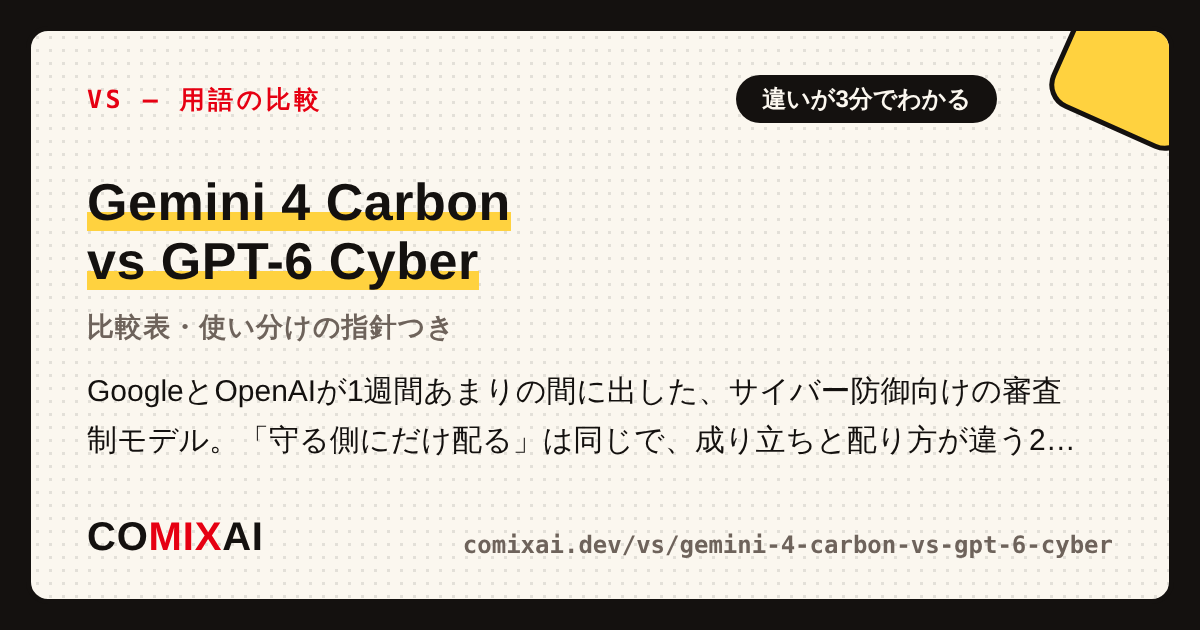
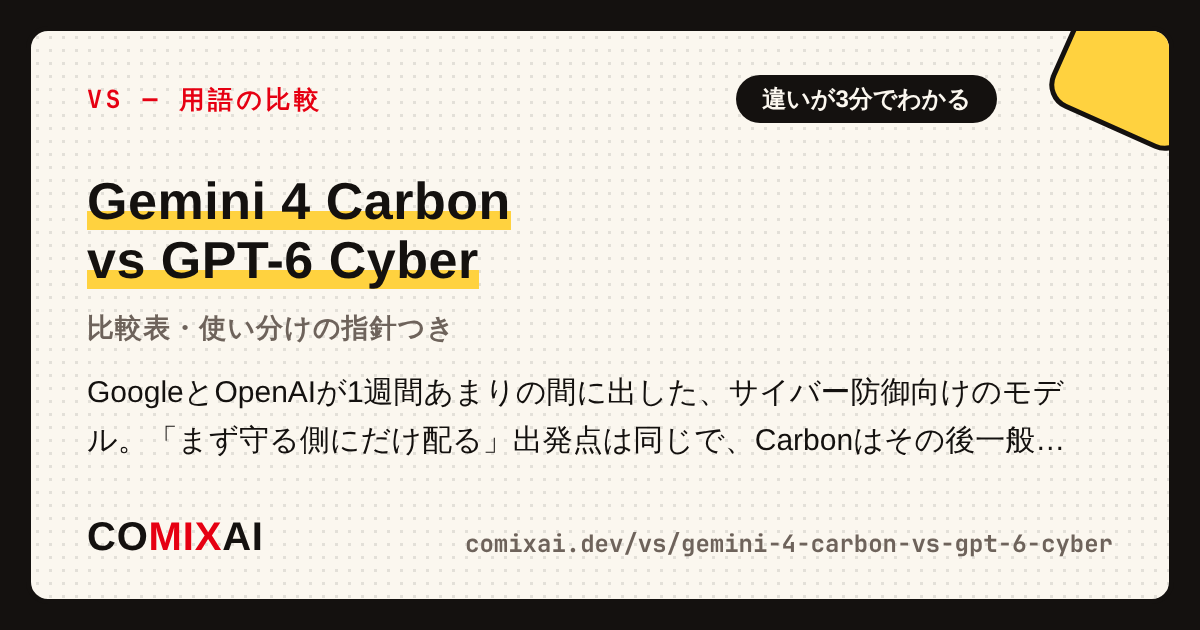
fix: 比較ページのGemini 4 Carbonの提供状況を更新（一般提供開始を反映） (#318)
/vs/gemini-4-carbon-vs-gpt-6-cyber が、Carbonを審査制のままとして
書かれていた。Carbonは2026年11月10日に一般提供が始まっているため、
事実と食い違っていた6か所を現状に合わせた。GPT-6 Cyberは審査制の
ままなので、そちらは変更していない。

shortを直したぶん、該当ペアのOGP画像も再生成。

Claude-Session: https://claude.ai/code/session_013s3PaBcBV9Nh4iibjfCyyR

diff --git a/src/app/vs/data.ts b/src/app/vs/data.ts
@@ -950,11 +950,11 @@ export const VS_PAIRS: VsPair[] = [
     bName: "GPT-6 Cyber",
     title: "Gemini 4 CarbonとGPT-6 Cyberの違い",
     short:
-      "GoogleとOpenAIが1週間あまりの間に出した、サイバー防御向けの審査制モデル。「守る側にだけ配る」は同じで、成り立ちと配り方が違う2つを、2026年11月時点の情報で整理します。",
+      "GoogleとOpenAIが1週間あまりの間に出した、サイバー防御向けのモデル。「まず守る側にだけ配る」出発点は同じで、Carbonはその後一般提供へ進みました。成り立ちと配り方が違う2つを、2026年11月時点の情報で整理します。",
     verdict:
-      "どちらも「攻める力と守る力は同じ能力の裏表」という事実を、審査を通った守る側にだけ配る形にしたモデルです。たとえるなら、同じ時期に2社から出た消防署専用の特殊車両。違いは成り立ちで、Carbonは最上位の新型をまず消防署に回した形、Cyberは現行の主力機を消防仕様に仕立てた形です。",
+      "どちらも「攻める力と守る力は同じ能力の裏表」という事実を受けて、まず審査を通った守る側にだけ配る形で出したモデルです。たとえるなら、同じ時期に2社から出た消防署専用の特殊車両。違いは成り立ちで、Carbonは最上位の新型をまず消防署に回した形、Cyberは現行の主力機を消防仕様に仕立てた形です。その後Carbonは2026年11月10日に一般提供へ進み、Cyberは審査の内側に留まっています。",
     lead: [
-      "Gemini 4 Carbonは、Googleが2026年10月28日に発表したフロンティアモデルです。自社で最も強力なモデルと位置づけられ、強みの打ち出しはサイバーセキュリティと長時間かかる作業の2つ。ソフトウェアの欠陥を見つけ、攻撃者が実際に悪用できるのかを確かめ、根本の原因を直すところまでを、守る側の道具として担います。発表時点で使えるのは、審査制プログラム「Fairwind」を通ったサイバー防御の担当者だけです。",
+      "Gemini 4 Carbonは、Googleが2026年10月28日に発表したフロンティアモデルです。自社で最も強力なモデルと位置づけられ、強みの打ち出しはサイバーセキュリティと長時間かかる作業の2つ。ソフトウェアの欠陥を見つけ、攻撃者が実際に悪用できるのかを確かめ、根本の原因を直すところまでを、守る側の道具として担います。発表時点で使えるのは、審査制プログラム「Fairwind」を通ったサイバー防御の担当者だけでした。その後、2026年11月10日に一般提供が始まっています（個人向けの入り口は最上位の有料プラン限定です）。",
       "GPT-6 Cyberは、OpenAIが約1週間後の11月5日に発表した、サイバーセキュリティ専用のモデルです。汎用のフロンティアモデルGPT-6 Astraをもとに、許可を得たセキュリティ業務のために仕立てた派生で、提供は審査制プログラム「Daybreak Red」の承認済み顧客に限られます。OpenAI自身がこのモデルのサイバー分野の危険度を自社基準の最上位「Critical」に分類したうえで、配る相手を絞って出す——という組み立てです。つまり2つは、同じ思想（守る側から配る）のライバル製品で、成り立ちと配り方の細部が違います。",
     ],
     rows: [
@@ -963,10 +963,10 @@ export const VS_PAIRS: VsPair[] = [
       { point: "成り立ち", a: "Argonの上に積んだ自社最強のフロンティア", b: "汎用GPT-6 Astraのセキュリティ専用派生" },
       { point: "審査制プログラム", a: "Fairwind（サイバー防御の担当者など）", b: "Daybreak Red（承認済み顧客にAPI・Codex経由）" },
       { point: "公表された中身", a: "自社測定スコア（安全装置を外した条件の注記つき）", b: "Firefoxで未知の脆弱性81件発見などの実地結果" },
-      { point: "一般提供（2026年11月時点）", a: "時期は示されていない", b: "時期は示されていない。組織側に認証等の条件も" },
+      { point: "一般提供（2026年11月時点）", a: "2026年11月10日に開始（個人は最上位プラン限定）", b: "時期は示されていない。組織側に認証等の条件も" },
     ],
     usage: [
-      "2026年11月時点で、どちらも一般の利用者や審査を受けていない企業は使えません。なのでこの2つは「選ぶ」話ではなく「読む」話です。読む軸は、1週間あまりの間に2社が揃って「最前線のモデルは、まず守る側から」という同じ配り順を選んだこと。新モデルのニュースを見たら、性能の数字より先に「誰から使えるようにしたか」を見る——この読み方が、2026年後半の標準になりました。性能の数字は両社とも自社測定が中心で、Carbonには安全装置を外した条件での測定という注記、Cyberには汎用版のほうが上だった指標もあるという留保が付いています。順位の断定は、外部の検証が揃うまで保留が正確です。",
+      "2026年11月時点で、Carbonは一般提供が始まり（個人向けの入り口は最上位の有料プラン限定）、Cyberは審査を通った顧客だけに留まっています。出た直後に横に並べて「選ぶ」話ではなく、配り方を「読む」話だったのは変わりません。読む軸は、1週間あまりの間に2社が揃って「最前線のモデルは、まず守る側から」という同じ配り順を選んだこと。新モデルのニュースを見たら、性能の数字より先に「誰から使えるようにしたか」を見る——この読み方が、2026年後半の標準になりました。性能の数字は両社とも自社測定が中心で、Carbonには安全装置を外した条件での測定という注記、Cyberには汎用版のほうが上だった指標もあるという留保が付いています。順位の断定は、外部の検証が揃うまで保留が正確です。",
       "もうひとつの持ち帰りは、守る側の宿題です。AIが脆弱性を見つけて悪用可能性まで確かめる速度が上がるほど、修正が配られてから適用するまでの速さが、これまで以上に効いてきます。手元の端末やサーバーの更新を溜めない——という当たり前の作業の価値が、静かに上がっています。「攻める手順と守る手順は同じ能力の裏表」。この1行を知っているだけで、この種のニュースの「すごい」と「怖い」の振れ幅に惑わされにくくなります。",
     ],
     faq: [
@@ -976,7 +976,7 @@ export const VS_PAIRS: VsPair[] = [
       },
       {
         q: "一般の企業でも使えますか？",
-        a: "基本的には使えません。CarbonはFairwindを通ったサイバー防御の担当者など、CyberはDaybreak Redの承認済み顧客に限られ、Cyberは組織側に多要素認証やネットワーク制限といった条件も付きます。どちらも一般への提供時期は示されていません（2026年11月時点）。",
+        a: "2社で分かれました。Carbonは2026年11月10日に一般提供が始まり、開発者はGemini APIの有料枠から、企業はGemini for businessから使えます（Geminiアプリや検索のAIモードで使うには最上位の有料プラン「Google AI Ultra」が必要で、下位のAI ProやAI Plus、無料のプランは対象外です）。CyberはいまもDaybreak Redの承認済み顧客に限られ、組織側に多要素認証やネットワーク制限といった条件も付きます。Cyberの一般への提供時期は示されていません（2026年11月時点）。",
       },
       {
         q: "なぜ2社とも、守る側にだけ配るのですか？",
@@ -988,7 +988,7 @@ export const VS_PAIRS: VsPair[] = [
       { label: "体験ゲーム：AI警備員（AIに仕込まれた隠れ指示を見抜く）", href: "/keibi" },
       { label: "用語：トラステッドアクセス（審査を通した相手にだけ配る方式）", href: "/glossary/trusted-access" },
     ],
-    lastUpdated: "2026-11-11",
+    lastUpdated: "2026-11-16",
   },
   {
     slug: "voice-assistant-vs-always-listening-ai",
